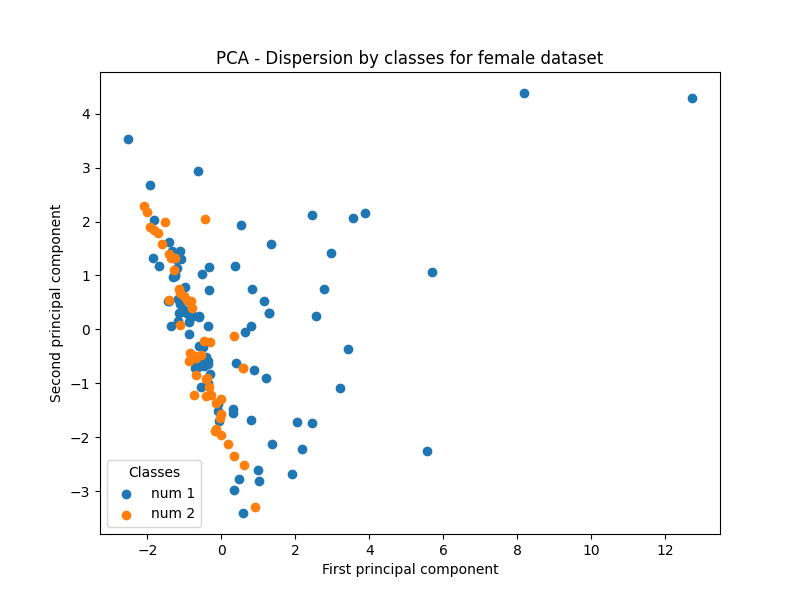
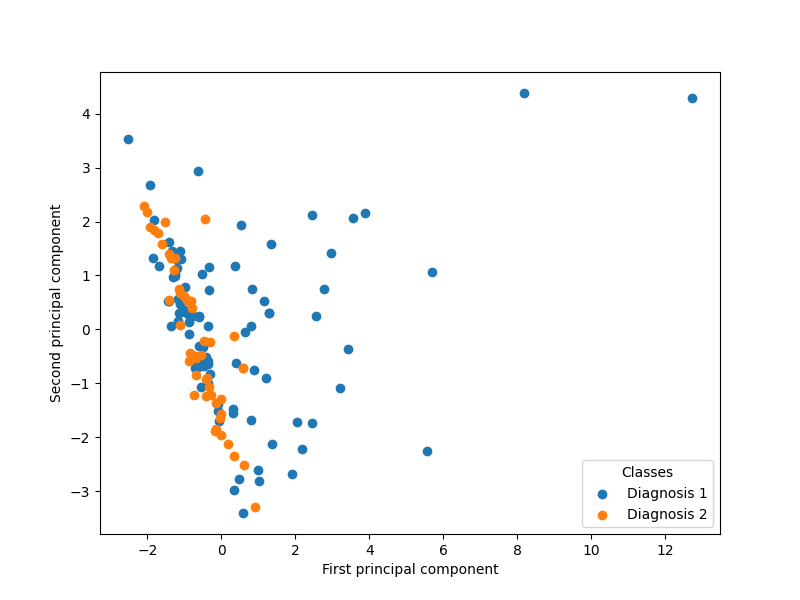
adjustments in the PCA graphics for ILP Dataset

diff --git a/ILPD/ECoL/graphics_PCA.py b/ILPD/ECoL/graphics_PCA.py
@@ -20,14 +20,14 @@ def createGraphic2D(feature_columns_scaled, target_column):
         plt.scatter(
             feature_columns_pca[target_column == class_id, 0],  # First principal component
             feature_columns_pca[target_column == class_id, 1],  # Second principal component
-            label=f"num {class_id}"
+            label=f"Diagnosis {class_id}"
         )
 
     plt.legend(title="Classes")
 
     plt.xlabel("First principal component")
     plt.ylabel("Second principal component")
-    plt.title(f"PCA - Dispersion by classes for {DATASET} dataset")
+    #plt.title(f"PCA - Dispersion by classes for {DATASET} dataset")
     plt.savefig(f'graphics/graphics_PCA/PCA(2D)-{DATASET}.png')  
 
 
